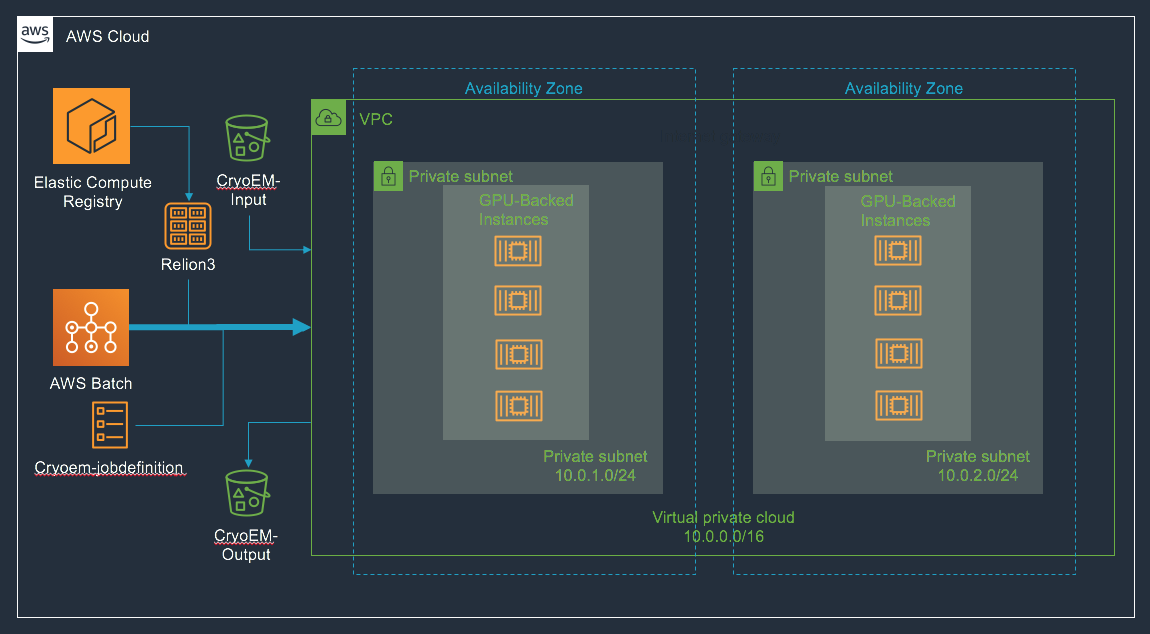
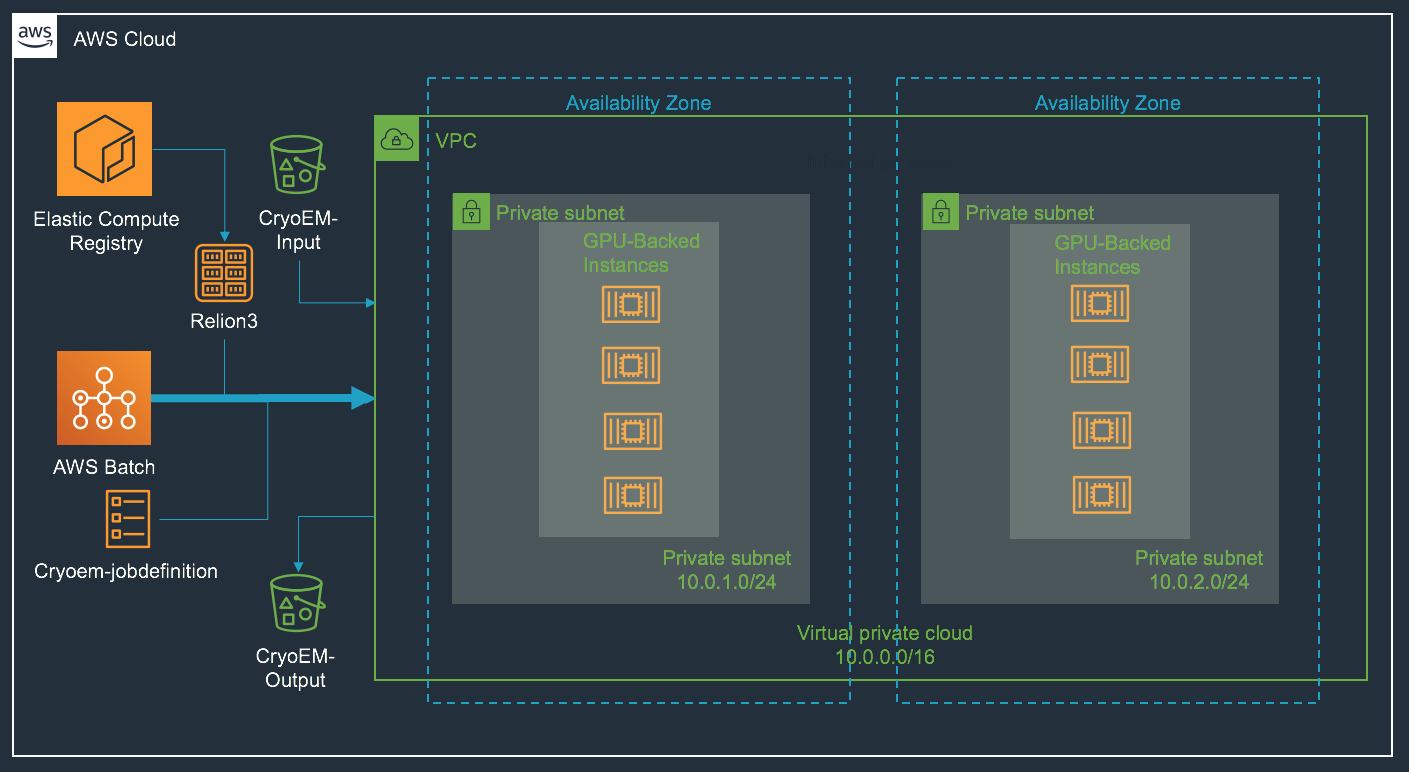
cryoem initial commit

diff --git a/README.md b/README.md
@@ -11,5 +11,5 @@ This sample code is made available under a MIT license. See the LICENSE file.
 You will need an AWS Account with IAM permissions to S3FullAccess. As well as the ability to execute CloudFormation scripts. The cloudformation script will provision an . Permissions to create the network topology will be needed.
 
 <p align="center">
-  <img src="/imgs/arch.png?raw=true" alt="CryoEM Workflow Overview" width="800" height="500"/>
+  <img src="/imgs/arch.png?raw=true" alt="CryoEM Workflow Overview" width="800" height="450"/>
 </p>
